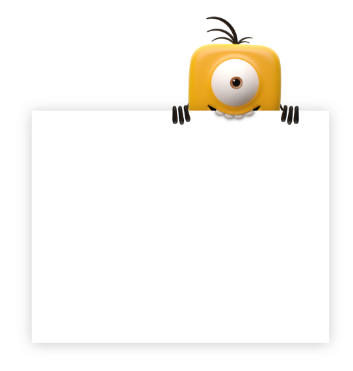
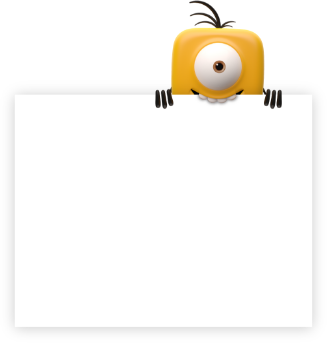
created home page styling

Changed region(s): [[0.4587, 0.0, 0.8869, 0.3499]]

diff --git a/src/App.tsx b/src/App.tsx
@@ -1,18 +1,19 @@
 import style from "./App.module.css";
-import newLogo from "./assets/NEW.png";
-import whatsAppLogo from "./assets/whatsapp.png";
 import buttonsBackground from "./assets/cute_monster4.png";
 import moreLogos from "./assets/MORE.png"
+import Button from "./components/Button/Button";
+import HeaderLogos from "./components/HeaderLogos/HeaderLogos";
+import cuteMonsterLogo from "./assets/cute_monster3.png"
+import Testimonial from "./components/Testimonial/Testimonial";
+import Description from "./components/Description/Description";
 
 const App = () => {
   return (
     <div className={style.main_container}>
+              <img className={style.cuteMonster} src={cuteMonsterLogo}/>
+
       <div className={style.content_container}>
-        <div className={style.header_icons}>
-          <img src={newLogo} alt="new_logo" />
-          <img src={whatsAppLogo} alt="new_logo" />
-          <img src={newLogo} alt="new_logo" />
-        </div>
+        <HeaderLogos/>
         <div className={style.backgroundContainer}>
         <img src={buttonsBackground} alt="cute_back" />
         </div>
@@ -24,12 +25,14 @@ const App = () => {
             <span id={style.colorText}>WhatsApp Stickers</span>
           </p>
           <p>Choose your sticker type:</p>
-          <button>Funny</button>
-          <button>Romance</button>
+          <Button buttonStyle="Funny"/>
+          <Button buttonStyle="Romance"/>
         </div>
         <div className={style.moreLogosContainer}>
           <img src={moreLogos} alt="more-logos" />
         </div>
+        <Testimonial/>
+        <Description/>
       </div>
     </div>
   );

diff --git a/src/App.module.css b/src/App.module.css
@@ -2,23 +2,23 @@
   display: flex;
   justify-content: center;
   align-items: center;
-  height: 100vh;
+  height: 100%;
+  position: relative;
+  margin-top: 2rem;;
 }
 
 .content_container {
   display: flex;
+  justify-content: center;
+  align-items:center;
   flex-direction: column;
-  background-color: #59bba6;
-  height: 893px;
-  width: 350px;
   position: relative;
-}
-
-.header_icons {
-  display: flex;
   width: 100%;
-  justify-content: space-between;
-  margin: 0;
+  padding: 1rem;
+  gap: 0.5rem;
+  @media (max-width: 864px) {
+    width: 100%;
+  }
 }
 
 .selection_buttons {
@@ -27,14 +27,21 @@
   justify-content: center;
   align-items: center;
   position: absolute;
-  top: 4.2rem;
+  top: 5rem;
   gap: 0.4rem;
   left: 50%;
   transform: translate(-50%, 50%);
 }
 
+.cuteMonster {
+  position: absolute;
+  top: 3.8rem;
+  left: 50%;
+  transform: translate(-100%, 0%);
+}
+
 .selection_buttons button {
-  width: 17rem;
+  width: 16rem;
   height: 2.5rem;
   border: none;
   color: #ffffff;
@@ -62,12 +69,9 @@
 .backgroundContainer {
   display: flex;
   justify-content: center;
+  width: 100%;
   position: absolute;
-  top: 2rem;
-}
-
-.backgroundContainer img {
-  margin-left: -5px;
+  top: 4rem;
 }
 
 .headingText {
@@ -87,6 +91,5 @@
 .moreLogosContainer{
   display: flex;
   justify-content: center;
-  margin-top: 18rem;
-
+  margin-top: 19rem;
 }

diff --git a/src/components/Description/Description.tsx b/src/components/Description/Description.tsx
@@ -1,0 +1,11 @@
+import style from "../Description/Description.module.css"
+
+const Description = () => {
+  return (
+    <div className={style.descriptionContainer}>
+        <p>This is a subscription service. This game is compatible with most mobile phones with color screen. Supported mobile brands include Nokia, iPhone, Sony, Samsung, Motorola, LG, HTC, Xiaomi and more. No subscription fees will be charged. Maxis: RM4 per message, maximum 7 times per month, max of RM30(excl. GST) per month. Normal mobile operator network charges apply. GPRS / 3G access needs to be enabled to download the content. Data charges are billed separately. Some phones do not support GPRS / 3G. Please seek parental or guardian approval if you are 18 years old or below. Helpdesk 03-74910666 (9am-5pm Mon-Fri). To cancel send STOP ALARM to 36099. Buz2mobile operates according to the Malaysian code of conduct for SMS services. Powered by Moblife. TV Sdn Bhd.</p>
+    </div>
+  )
+}
+
+export default Description

diff --git a/src/components/Button/Button.module.css b/src/components/Button/Button.module.css
@@ -1,0 +1,42 @@
+.typeButton {
+    width: 17rem;
+  height: 2.5rem;
+  border: none;
+  color: #ffffff;
+  font-weight: 600;
+  font-size: 22px;
+  border-radius: 2rem;
+  stroke: black;
+  stroke-width: 2rem;
+  margin-top: 1rem;
+  background: rgb(250, 175, 66);
+  background: linear-gradient(
+    180deg,
+    rgba(250, 175, 66, 1) 0%,
+    rgba(250, 173, 65, 1) 15%,
+    rgba(249, 167, 65, 1) 21%,
+    rgba(247, 157, 64, 1) 25%,
+    rgba(246, 142, 63, 1) 28%,
+    rgba(244, 124, 61, 1) 32%,
+    rgba(241, 99, 58, 1) 34%,
+    rgba(240, 83, 57, 1) 100%
+  );
+  z-index: 1;
+}
+
+.typeButton:hover{
+    background: rgb(250, 175, 66);
+  background: linear-gradient(
+    180deg,
+    rgb(224, 158, 59) 0%,
+    rgb(216, 149, 56) 15%,
+    rgb(206, 138, 54) 21%,
+    rgb(202, 127, 53) 25%,
+    rgb(213, 124, 56) 28%,
+    rgb(206, 107, 53) 32%,
+    rgb(214, 88, 53) 34%,
+    rgb(205, 73, 49) 100%
+  );
+    transition: 300ms ease-in;
+    cursor: pointer;
+}

diff --git a/src/components/HeaderLogos/HeaderLogos.tsx b/src/components/HeaderLogos/HeaderLogos.tsx
@@ -1,0 +1,16 @@
+import newLogo from "../../assets/NEW.png";
+import whatsAppLogo from "../../assets/whatsapp.png";
+import laughLogo from "../../assets/laugh.png"
+import style from "../HeaderLogos/HeaderLogo.module.css";
+
+const HeaderLogos = () => {
+  return (
+    <div className={style.header_icons}>
+      <img src={newLogo} alt="new_logo" />
+      <img src={whatsAppLogo} height={"56px"} alt="new_logo" />
+      <img src={laughLogo} height={"56px"} alt="new_logo" />
+    </div>
+  );
+};
+
+export default HeaderLogos;

diff --git a/src/router/AppRouter.tsx b/src/router/AppRouter.tsx
@@ -1,0 +1,16 @@
+import {BrowserRouter, Routes, Route} from 'react-router-dom'
+
+const AppRouter = () => {
+  return (
+    <BrowserRouter>
+    <Routes>
+    <Route path='/'/>
+    <Route path='/enterphone'/>
+    <Route path='/pinscreen'/>
+    <Route path='/thank-you'/>
+    </Routes>
+    </BrowserRouter>
+  )
+}
+
+export default AppRouter

diff --git a/src/components/Button/Button.tsx b/src/components/Button/Button.tsx
@@ -1,0 +1,11 @@
+import style from "./Button.module.css";
+
+type ButtonProps = {
+  buttonStyle: string;
+};
+
+const Button = ({ buttonStyle }: ButtonProps) => {
+  return <button className={style.typeButton}>{buttonStyle}</button>;
+};
+
+export default Button;

diff --git a/src/components/Testimonial/Testimonial.module.css b/src/components/Testimonial/Testimonial.module.css
@@ -1,0 +1,9 @@
+.testimonialContainer {
+    background-color: #319379;
+    height: 84px;
+    width: 18rem;
+    display: flex;
+    justify-content: center;
+    align-items: center;
+    box-shadow: rgba(149, 157, 165, 0.2) 0px 8px 24px;
+}

diff --git a/src/components/Testimonial/Testimonial.tsx b/src/components/Testimonial/Testimonial.tsx
@@ -1,0 +1,11 @@
+import style from "../Testimonial/Testimonial.module.css"
+
+const Testimonial = () => {
+  return (
+    <div className={style.testimonialContainer}>
+        Testimonial
+        </div>
+  )
+}
+
+export default Testimonial

diff --git a/src/components/Description/Description.module.css b/src/components/Description/Description.module.css
@@ -1,0 +1,8 @@
+.descriptionContainer {
+    display: flex;
+    justify-content: center;
+    color: #ffffff;
+    width: 18rem;
+    font-size: 12px;
+    text-align: center;
+}

diff --git a/src/components/HeaderLogos/HeaderLogo.module.css b/src/components/HeaderLogos/HeaderLogo.module.css
@@ -1,0 +1,8 @@
+.header_icons {
+  display: flex;
+  width: 100%;
+  justify-content: center;
+  align-items:center;
+  margin: 0;
+  gap:4rem;
+}

diff --git a/src/index.css b/src/index.css
@@ -3,3 +3,8 @@
   padding: 0;
   box-sizing: border-box;
 }
+
+body{
+  background-color: #59bba6;
+
+}
